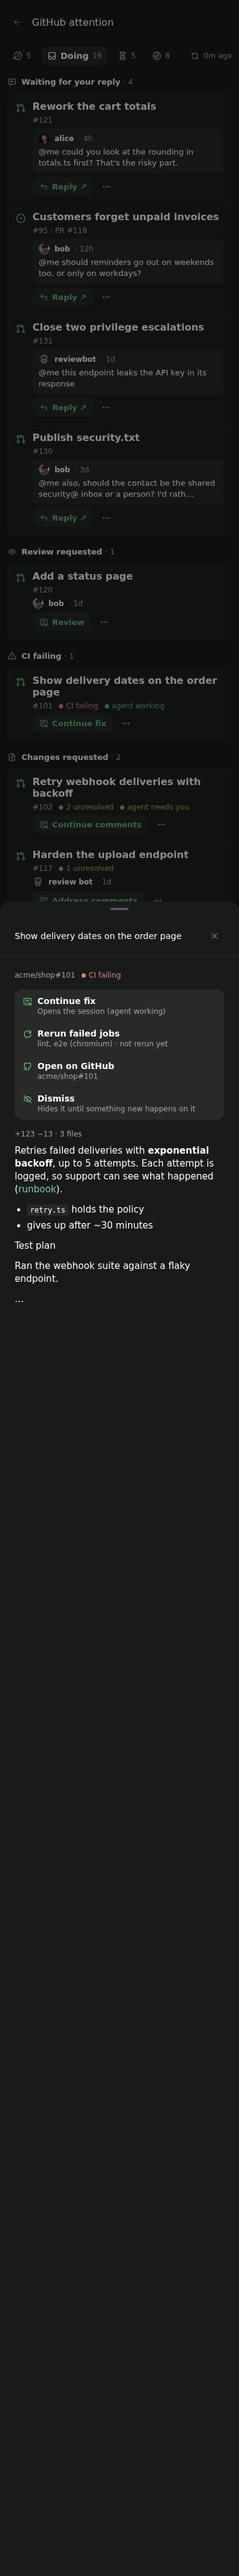
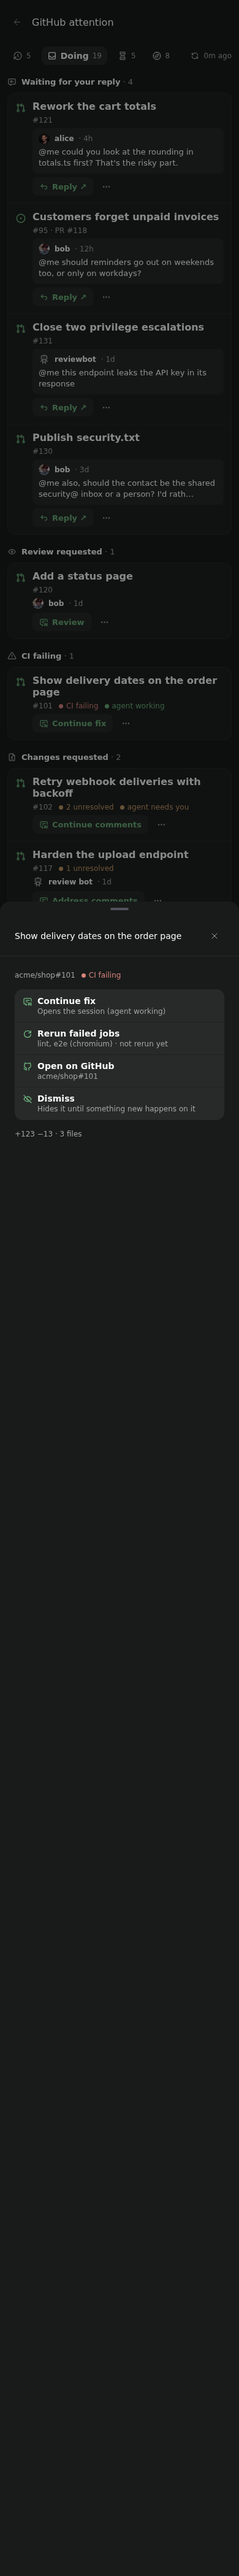
Drop the description from sheets [ATT-06]
Rendering a cut-down description felt awkward, and making sense of it
takes GitHub anyway. Sheets now fetch only the PR's size and the linked
issue or PRs. The 👍 picker still renders waiting comments as Markdown.

Changed region(s): [[0.0615, 0.4367, 0.4923, 0.499], [0.6154, 0.4367, 0.8923, 0.4679], [0.4923, 0.4367, 0.6154, 0.499]]

diff --git a/server/fixture.ts b/server/fixture.ts
@@ -1,5 +1,4 @@
 import type { AgentSummary, ItemDetails, Target } from "../shared/inbox";
-import { excerpt } from "./markdown";
 import type { Actor, Comment, Details, IssueNode, MentionNode, PickableNode, PullRequestNode, SearchResult } from "./github-types";
 
 // Made-up GitHub data for tests and for previews without GitHub (PASEO_GITHUB_ATTENTION_FIXTURE=1).
@@ -207,30 +206,10 @@ export const FIXTURE_AGENTS: Record<string, AgentSummary> = {
 
 export const FIXTURE_CONTEXT = "Context from GitHub would go here (fixture mode).";
 
-// Descriptions as GitHub has them: a template comment, Markdown, HTML.
-const PR_BODY = `<!-- What does this change, and why? -->
-Retries failed deliveries with **exponential backoff**, up to 5 attempts. Each attempt is logged, so support can see what happened ([runbook](https://example.com/runbook)).
-
-- \`retry.ts\` holds the policy
-- gives up after ~30 minutes
-
-<details><summary>Test plan</summary>
-
-Ran the webhook suite against a flaky endpoint.
-</details>
-
-${"Longer notes on the rollout follow. ".repeat(12)}`;
-const ISSUE_BODY = `When a shop has more than a few thousand orders, the export runs past the **30 second** limit and the download never starts.
-
-Seen by two customers this week:
-1. Nordic Bikes
-2. Hansen & Søn`;
-
-// What a sheet shows, made up: a description, a size, the linked issue, and failing checks for Rerun.
+// What a sheet shows, made up: a size, the linked issue, and failing checks for Rerun.
 export function fixtureDetails(subject: { kind: "pr" | "issue"; repo: string; number: number }, target: Target | undefined, checks: boolean): ItemDetails {
   const pr = target?.kind === "pr" ? target : undefined;
   return {
-    excerpt: excerpt(subject.kind === "issue" ? ISSUE_BODY : PR_BODY),
     size: pr ? { additions: 84 + (pr.number % 7) * 13, deletions: 12 + (pr.number % 5), files: 2 + (pr.number % 4) } : undefined,
     linked: subject.number === 120 ? [{ number: 200, title: "Customers can't tell when the shop is down", url: `https://github.com/${REPO}/issues/200`, state: "OPEN" }] : [],
     failing: checks && pr ? [{ pr: pr.number, checks: [{ name: "lint", rerunnable: true }, { name: "e2e (chromium)", rerunnable: true }], runs: [{ id: 9001, attempt: 1 }] }] : [],

diff --git a/server/markdown.test.ts b/server/markdown.test.ts
@@ -2,30 +2,30 @@ import { describe, expect, it } from "vitest";
 import { excerpt, plainText } from "./markdown";
 
 describe("markdown", () => {
-  it("ATT-06: shows the description's opening, without template comments or images", () => {
+  it("MEN-07: drops template comments and images", () => {
     expect(excerpt("<!-- Describe your change -->\r\nRetries failed deliveries.\n\n\n\n![shot](https://x/y.png)")).toBe("Retries failed deliveries.");
     expect(excerpt("<!-- only a template -->")).toBeNull();
   });
 
-  it("ATT-06: keeps Markdown, stopping after the last whole block that fits", () => {
+  it("MEN-07: keeps Markdown, stopping after the last whole block that fits", () => {
     const body = "Retries with **backoff**, see [the runbook](https://x/runbook).\n\n- logs each attempt\n- gives up after 5\n\n" + "More detail. ".repeat(60);
     expect(excerpt(body)).toBe("Retries with **backoff**, see [the runbook](https://x/runbook).\n\n- logs each attempt\n- gives up after 5\n\n…");
   });
 
-  it("ATT-06: keeps a code block whole, even with blank lines inside", () => {
+  it("MEN-07: keeps a code block whole, even with blank lines inside", () => {
     expect(excerpt("Run:\n\n```sh\nnpm test\n\nnpm run check\n```")).toBe("Run:\n\n```sh\nnpm test\n\nnpm run check\n```");
   });
 
-  it("ATT-06: closes a code block cut short", () => {
+  it("MEN-07: closes a code block cut short", () => {
     const text = excerpt(`\`\`\`\n${"line\n".repeat(40)}\`\`\``, 50)!;
     expect(text.endsWith("line\n```\n\n…")).toBe(true);
   });
 
-  it("ATT-06: keeps the text of HTML like <details>, outside code", () => {
+  it("MEN-07: keeps the text of HTML like <details>, outside code", () => {
     expect(excerpt("<details><summary>Logs</summary>\n\nAll green\n</details>\n\n```html\n<b>kept</b>\n```")).toBe("Logs\n\nAll green\n\n```html\n<b>kept</b>\n```");
   });
 
-  it("ATT-06: cuts a long paragraph at a word", () => {
+  it("MEN-07: cuts a long paragraph at a word", () => {
     const text = excerpt("word ".repeat(200), 50)!;
     expect(text.endsWith("word…")).toBe(true);
     expect(text.length).toBeLessThanOrEqual(51);

diff --git a/server/details.ts b/server/details.ts
@@ -1,6 +1,5 @@
 import type { FailingChecks, ItemDetails, Target } from "../shared/inbox";
 import { graphql, runGh } from "./gh";
-import { excerpt } from "./markdown";
 
 // What an item's sheet shows beyond the card, fetched when it opens [ATT-06, GH-01].
 
@@ -20,7 +19,7 @@ type PullRequest = {
   commits?: { nodes: { commit: { statusCheckRollup: { contexts: { nodes: Context[] } } | null } }[] };
 };
 type Result = {
-  s: { issueOrPullRequest: { body?: string; closedByPullRequestsReferences?: Linked; closingIssuesReferences?: Linked } | null } | null;
+  s: { issueOrPullRequest: { closedByPullRequestsReferences?: Linked; closingIssuesReferences?: Linked } | null } | null;
 } & Record<string, { pullRequest: PullRequest | null } | null>;
 
 const FAILED = new Set(["FAILURE", "TIMED_OUT", "STARTUP_FAILURE", "ERROR"]);
@@ -42,8 +41,8 @@ export async function itemDetails(subject: Subject, target: Target | undefined, 
   const linked = "nodes { number title url state }";
   const query = `query {
   s: ${repository(subject.repo)} { issueOrPullRequest(number: ${subject.number}) {
-    ... on Issue { body closedByPullRequestsReferences(first: 5, includeClosedPrs: true) { ${linked} } }
-    ... on PullRequest { body closingIssuesReferences(first: 5) { ${linked} } }
+    ... on Issue { closedByPullRequestsReferences(first: 5, includeClosedPrs: true) { ${linked} } }
+    ... on PullRequest { closingIssuesReferences(first: 5) { ${linked} } }
   } }
 ${numbers.map((number, index) => `  p${index}: ${repository(pr!.repo)} { pullRequest(number: ${number}) { number additions deletions changedFiles ${checks ? contexts : ""} } }`).join("\n")}
 }`;
@@ -65,7 +64,6 @@ ${numbers.map((number, index) => `  p${index}: ${repository(pr!.repo)} { pullReq
   }
 
   return {
-    excerpt: excerpt(node?.body),
     size: own ? { additions: own.additions, deletions: own.deletions, files: own.changedFiles } : undefined,
     linked: (node?.closingIssuesReferences ?? node?.closedByPullRequestsReferences)?.nodes ?? [],
     failing,

diff --git a/client/sheet.tsx b/client/sheet.tsx
@@ -1,5 +1,5 @@
 import { openExternalUrl } from "@getpaseo/plugin/client";
-import { Markdown, Modal } from "@getpaseo/plugin/client/ui";
+import { Modal } from "@getpaseo/plugin/client/ui";
 import type { ReactNode } from "react";
 import { Pressable, Text, View } from "react-native";
 import type { ItemDetails } from "../shared/inbox";
@@ -65,7 +65,7 @@ function Entry({ entry, first }: { entry: SheetEntry; first: boolean }) {
   );
 }
 
-// The PR's size, the description's opening and the linked issues or PRs, once fetched.
+// The PR's size and the linked issues or PRs, once fetched.
 export function DetailLines({ details, loading, error, linkedLabel }: { details?: ItemDetails; loading: boolean; error: unknown; linkedLabel: string }) {
   const styles = useStyles();
   if (loading) return <Text style={styles.muted}>Loading details…</Text>;
@@ -73,12 +73,6 @@ export function DetailLines({ details, loading, error, linkedLabel }: { details?
   return (
     <>
       {details.size ? <Text style={styles.muted}>{sizeText(details.size)}</Text> : null}
-      {/* Paseo's renderer: its theme and link handling. The server keeps the excerpt short, in whole blocks. */}
-      {details.excerpt ? (
-        <Markdown>{details.excerpt}</Markdown>
-      ) : (
-        <Text style={styles.muted}>No description.</Text>
-      )}
       {details.linked.map((link) => (
         <Pressable key={link.url} accessibilityRole="link" onPress={() => void openExternalUrl(link.url)}>
           <Text style={styles.muted} numberOfLines={1}>

diff --git a/server/markdown.ts b/server/markdown.ts
@@ -1,8 +1,8 @@
-// GitHub Markdown for the screen: whole-block excerpts to render, and plain text for quotes that are cut anywhere.
+// GitHub Markdown for the screen: whole comments to render in the 👍 picker, and plain text for quotes cut anywhere.
 
 const FENCE = /^\s*(```|~~~)/;
 
-// The description's opening as Markdown, whole blocks only, so a cut never breaks a link or code block [ATT-06].
+// Markdown cut after whole blocks only, so a cut never breaks a link or code block [MEN-07].
 // HTML comments (PR templates) and images go; other HTML tags, like <details>, keep only their text.
 export function excerpt(body: string | undefined, max = 600): string | null {
   const blocks = markdownBlocks(

diff --git a/shared/inbox.ts b/shared/inbox.ts
@@ -140,7 +140,6 @@ export interface NextUpIssue {
 
 // More about an item, fetched when its sheet opens rather than in every refresh [GH-01].
 export interface ItemDetails {
-  excerpt: string | null;
   // The PR actions apply to.
   size?: { additions: number; deletions: number; files: number };
   // The issues a PR closes, or the PRs that close an issue.

diff --git a/docs/architecture.md b/docs/architecture.md
@@ -86,7 +86,7 @@ Top to bottom. Each item appears once, under its most urgent reason [ATT-02].
 
 ## Next up
 
-A second tab lists open issues nobody is assigned to [NXT-01], in the inbox's orgs and repos unless `nextUp.repos` is set. They are ordered by priority, then effort, then age [NXT-02]. Priority and effort are org issue fields named in `config.json`; a value ranks by the configured `order` (matched by name, so "Small" matches "🐇 Small (0.5-2d)") or else by the field's own option order. Issues without a value go last. Scope chips filter the list; all are off at first, and the ones I pick are saved in `state.json` [NXT-03]. **Claim & start** assigns me with `gh issue edit --add-assignee @me`, then starts a "start" session on a new branch [NXT-05]. Each row's sheet shows the issue's description and its PRs, and offers **Claim** without starting, or **Unclaim** (`--remove-assignee @me`) on issues assigned to me; each is the other's Undo [NXT-07].
+A second tab lists open issues nobody is assigned to [NXT-01], in the inbox's orgs and repos unless `nextUp.repos` is set. They are ordered by priority, then effort, then age [NXT-02]. Priority and effort are org issue fields named in `config.json`; a value ranks by the configured `order` (matched by name, so "Small" matches "🐇 Small (0.5-2d)") or else by the field's own option order. Issues without a value go last. Scope chips filter the list; all are off at first, and the ones I pick are saved in `state.json` [NXT-03]. **Claim & start** assigns me with `gh issue edit --add-assignee @me`, then starts a "start" session on a new branch [NXT-05]. Each row's sheet shows the issue's PRs, and offers **Claim** without starting, or **Unclaim** (`--remove-assignee @me`) on issues assigned to me; each is the other's Undo [NXT-07].
 
 ## Actions
 
@@ -94,14 +94,14 @@ A card shows its main action and ⋯. Tapping the card or ⋯ opens its **sheet*
 
 1. **What the card knows:** repo#number, its chips, the full quote and the full stack.
 2. **Every action,** each with a line saying what it will do, then "… with options" for session actions [SES-02], Open on GitHub [ATT-12] and Dismiss [ATT-08].
-3. **What's fetched when it opens,** in one GraphQL request, so the refresh stays as light as before [GH-01]: the PR's size, the opening of the description and the linked issue or PRs. It comes last so the actions don't move when it arrives. The description is rendered as Markdown with Paseo's renderer. The server cuts it after the last whole paragraph, list or code block within about 600 characters, drops template comments and images, and keeps only the text of other HTML such as `<details>`.
+3. **What's fetched when it opens,** in one GraphQL request, so the refresh stays as light as before [GH-01]: the PR's size and the linked issue or PRs. It comes last so the actions don't move when it arrives. The description isn't shown; making sense of it takes GitHub anyway.
 
 An agent icon (Tabler's `message-ai`, a speech bubble with "AI") marks every action that starts or continues an agent session, marked *(agent)* below; the rest change GitHub right away [ATT-13]. GitHub actions don't ask first, apart from Merge and Close. Instead an Undo row appears, where GitHub can take it back, until I switch tabs [ATT-14].
 
 | Action | Shown when | Does |
 |---|---|---|
 | Reply ↗ | Mention waiting | Opens the comment on GitHub [ATT-12] |
-| Acknowledge | Mention waiting | Lists every waiting comment in full, rendered as Markdown, all ticked; 👍 on the ones I keep ticked (`addReaction`), which clears them [MEN-07]. Undo removes them. |
+| Acknowledge | Mention waiting | Lists every waiting comment in full, rendered as Markdown with Paseo's renderer (cut after whole blocks, up to about 4,000 characters), all ticked; 👍 on the ones I keep ticked (`addReaction`), which clears them [MEN-07]. Undo removes them. |
 | Review *(agent)* | Review requested | Session in a PR checkout using the review profile [SES-01] |
 | Fix CI / Address comments *(agent)* | CI failing / changes requested | Session with the failing log or unresolved threads in the prompt [SES-04] |
 | Rerun failed jobs | CI failing, in the sheet | `gh run rerun --failed` for each failing GitHub Actions run of the PR, or of every PR in its stack. The sheet names the failed checks and how often they were rerun (`gh api …/runs/<id>`), fetched when it opens. Other status checks can't be rerun from here [PRS-09]. |

diff --git a/.claude/skills/verify-plugin/SKILL.md b/.claude/skills/verify-plugin/SKILL.md
@@ -31,8 +31,8 @@ Never connect a browser, SDK client or script to the Paseo daemon that runs you 
    | File | Shows |
    |---|---|
    | `<layout>-doing.png` | Doing tab, every section |
-   | `<layout>-doing-sheet.png` | The sheet of "Show delivery dates on the order page" (a bottom sheet on phones): what the card knows, then Continue fix and Rerun failed jobs with the made-up failing checks, then the fetched size and the Markdown description. Uncropped, since it covers the page |
-   | `<layout>-doing-acknowledge.png` | The 👍 picker from "Publish security.txt": two waiting comments in full, both ticked. Uncropped |
+   | `<layout>-doing-sheet.png` | The sheet of "Show delivery dates on the order page" (a bottom sheet on phones): what the card knows, then Continue fix and Rerun failed jobs with the made-up failing checks, then the fetched size. Uncropped, since it covers the page |
+   | `<layout>-doing-acknowledge.png` | The 👍 picker from "Publish security.txt": two waiting comments in full, rendered as Markdown, both ticked. Uncropped |
    | `<layout>-doing-options.png` | The Options modal from "Address comments with options…" in the sheet of "Harden the upload endpoint": workspace, profile, prompt. Uncropped |
    | `<layout>-doing-merge-confirm.png` | The Merge confirmation on "Dialog focus returns to the trigger" |
    | `<layout>-doing-dismissed.png` | After dismissing the first row: the "Dismissed … · Undo" row |
@@ -40,7 +40,7 @@ Never connect a browser, SDK client or script to the Paseo daemon that runs you 
    | `<layout>-history-reviewed.png` | History with the newest Reviewed list open |
    | `<layout>-waiting.png` | Waiting sections and the "moved to Doing" hint. Each card shows the GitHub button instead of ⋯, its sheet's only action |
    | `<layout>-next-up.png` | Assigned, then all of Unclaimed |
-   | `<layout>-next-up-sheet.png` | The sheet of "Orders export times out for big shops": Continue, Unclaim, Open on GitHub, then the Markdown description. Uncropped |
+   | `<layout>-next-up-sheet.png` | The sheet of "Orders export times out for big shops": Continue, Unclaim, Open on GitHub. Uncropped |
    | `<layout>-next-up-filtered.png` | Unclaimed filtered to the Backend scope |
    | `<layout>-next-up-code-repo.png` | Start on "Price list import skips quoted rows" (in `acme/issues`, no checkout): the picker asking where its code lives. Uncropped |
    | `<layout>-next-up-code-repo-after.png` | After picking `acme/shop`: the shooter has checked config.json gained the mapping; the start then fails with "No agent provider is ready", as expected in the container |
